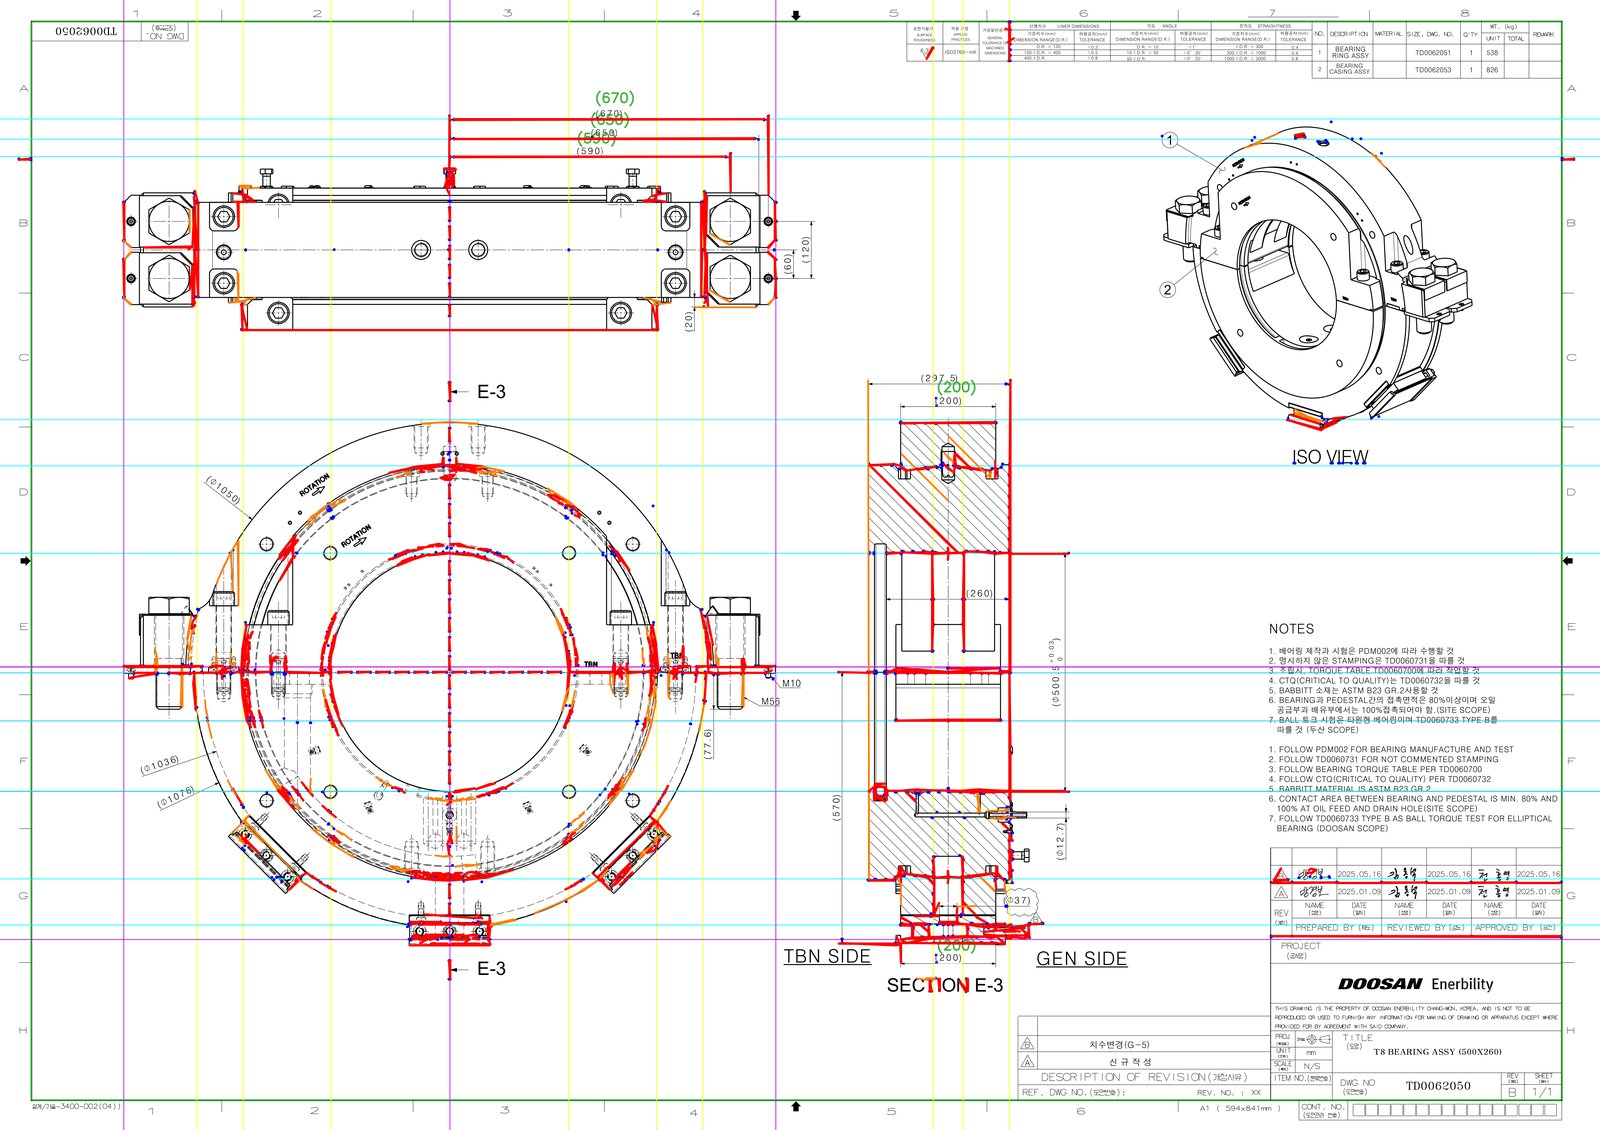
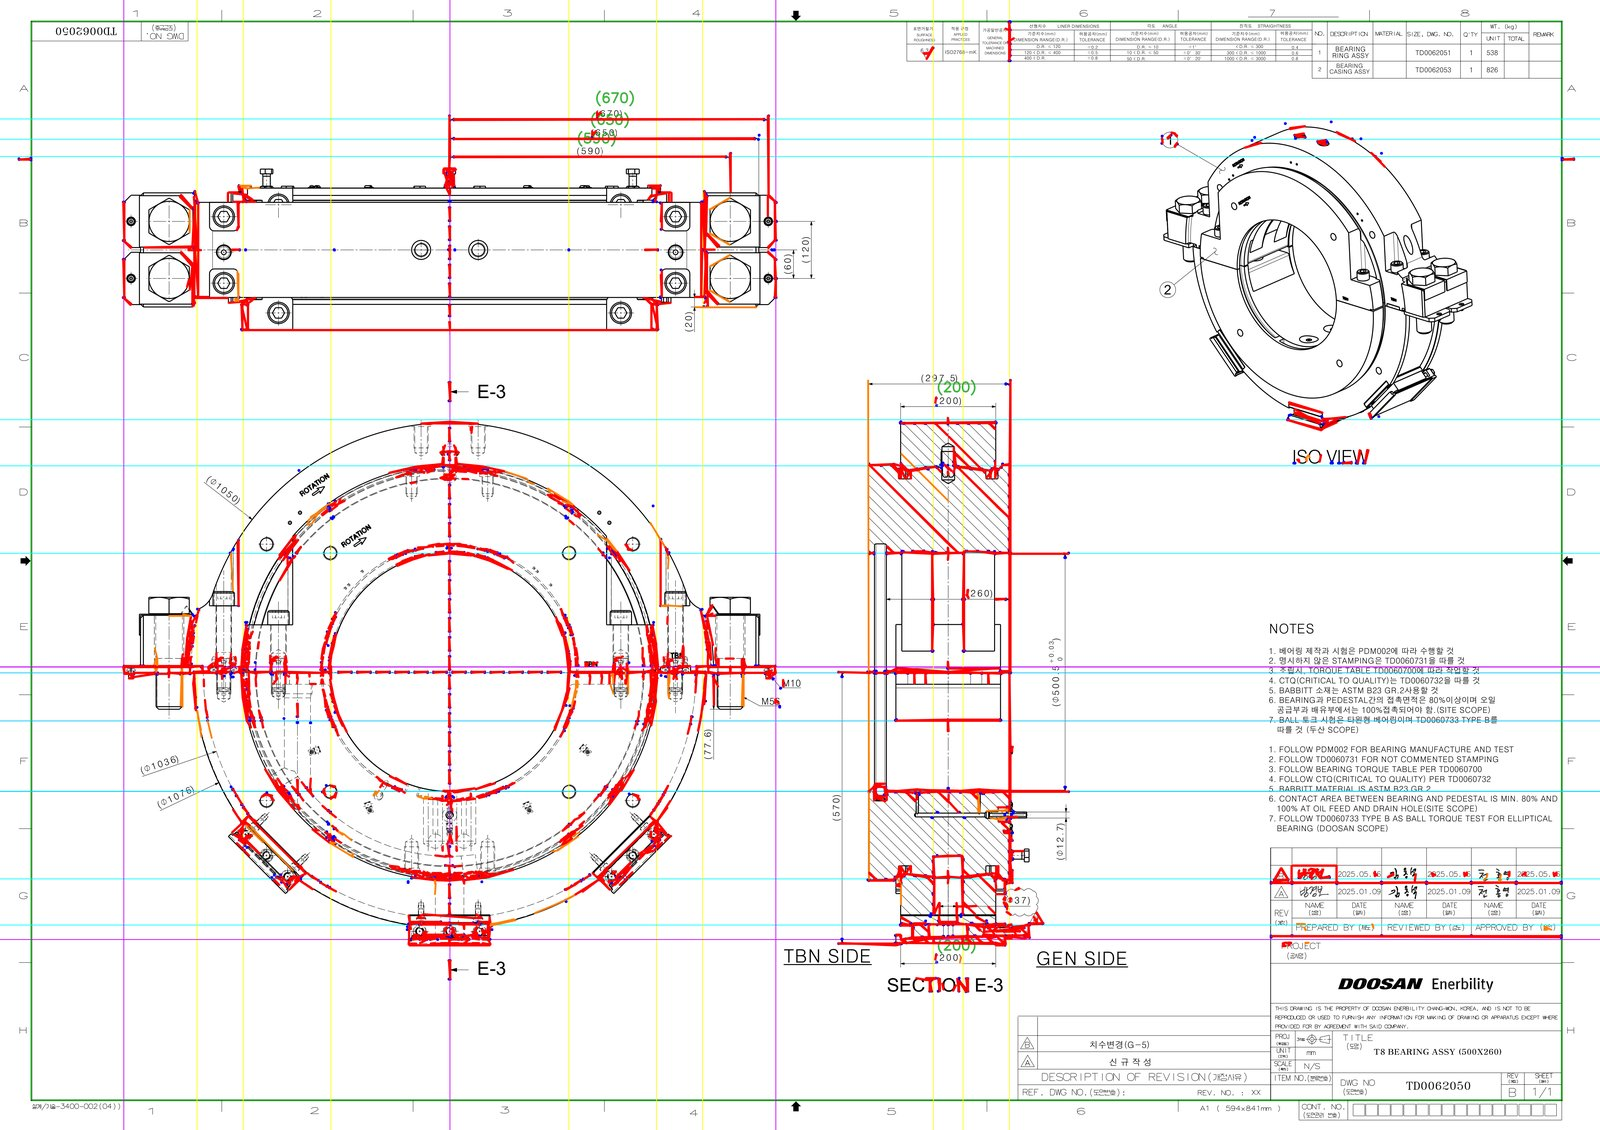
Tune S08 cardinal v3 line matching

diff --git a/blueprint-ai-bom/scripts/s08_cardinal_v3_ocr.py b/blueprint-ai-bom/scripts/s08_cardinal_v3_ocr.py
@@ -37,9 +37,10 @@ OUT_DIR.mkdir(exist_ok=True)
 LINE_API = "http://localhost:5016/api/v1/process"
 OCR_API = "http://localhost:5006/api/v1/ocr"
 
-LINE_MIN_LENGTH = 20
-LINE_MAX_LINES = 2000
-LINE_CONNECTION_RADIUS = 40.0
+ENDPOINT_TOLERANCE = 20
+LINE_MIN_LENGTH = 15
+LINE_MAX_LINES = 5000
+LINE_CONNECTION_RADIUS = 60.0
 OCR_SEARCH_RADIUS = 150.0
 PROJECTION_AXIS_TOLERANCE = 30.0
 LINE_KEY_COORD_BIN = 10.0
@@ -177,7 +178,9 @@ def detect_lines_api(image_path: Path) -> list[dict[str, Any]]:
                 "max_lines": str(LINE_MAX_LINES),
                 "merge_lines": "true",
                 "classify_types": "false",
-                "find_intersections_flag": "false",
+                "find_intersections": "false",
+                "classify_colors": "false",
+                "classify_styles": "false",
                 "visualize": "false",
             },
             timeout=120,
